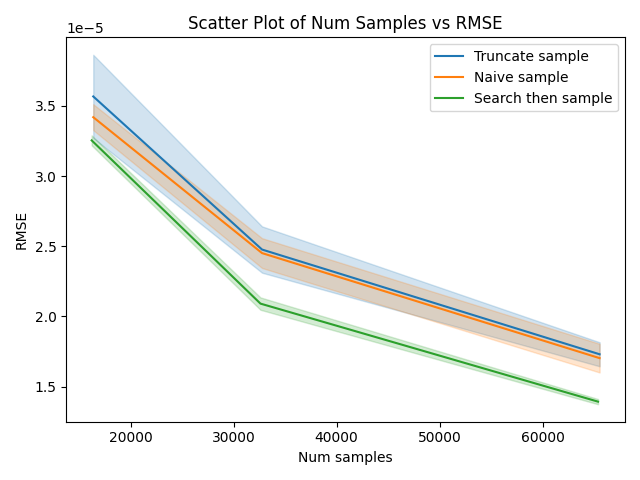
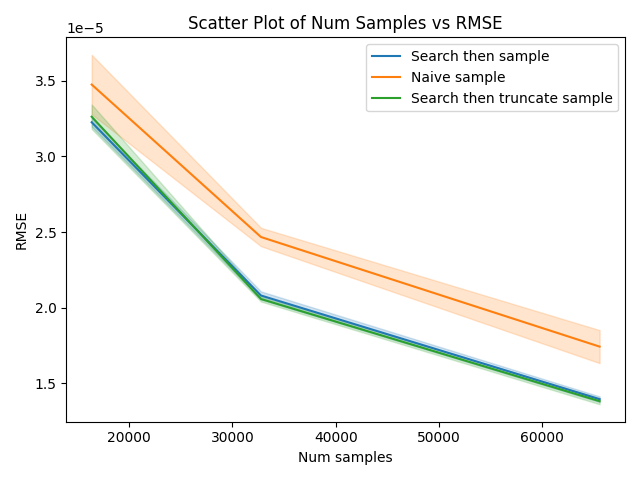
update llama prompt

diff --git a/logit-estimation/estimators.py b/logit-estimation/estimators.py
@@ -308,28 +308,37 @@ def search_then_estimate(sampler, prefix, K, T, threshold):
         estimated_logits=estimated_logits, idxs=idxs)
 
     remaining_calls = K*T - total_calls
-    sample_output = sampler.sample(prefix, remaining_calls, logit_bias)
-    estimator.add_sample(sample_output)
-    return estimator, K*T
-    """
     newT = remaining_calls // K
-    #import pdb; pdb.set_trace()
-    #newT = T
     for t in range(newT):
         print(t, newT)
         weight, words = estimator.weight()
         if weight is None:
             break
         logit_bias = {word: bias for word in words}
-        logit_bias = dict()
-        weight = 0.
         sample_output = sampler.sample(prefix, K, logit_bias)
         allowed_words = [x for x in range(sampler.vocab_size) if x not in logit_bias]
         estimator.add_sample(sample_output, weight, allowed_words=allowed_words)
-    #return estimator, K*T
-    return estimator, total_calls + K * (t+1)
-    """
 
+    weight, words = estimator.weight()
+    logit_bias = {word: bias for word in words}
+    if weight is not None:
+        sample_output = sampler.sample(prefix, remaining_calls % K, logit_bias)
+        allowed_words = [x for x in range(sampler.vocab_size) if x not in logit_bias]
+        estimator.add_sample(sample_output, weight, allowed_words=allowed_words)
+
+    return estimator, K*T
+
+def search_then_sample(sampler, prefix, K, T, threshold):
+    idxs, estimated_logits, logit_bias, total_calls = diffsearch(sampler, prefix, 128, dict())
+
+    bias = -1000
+    estimator = Estimator(sampler.vocab_size, threshold,
+        estimated_logits=estimated_logits, idxs=idxs)
+
+    remaining_calls = K*T - total_calls
+    sample_output = sampler.sample(prefix, remaining_calls)
+    estimator.add_sample(sample_output)
+    return estimator, K*T
 
 
 if __name__ == "__main__":
@@ -351,15 +360,33 @@ if __name__ == "__main__":
         model = llama
         model_name = "llama"
     if model == llama:
-        prefix = "[INST] <<SYS>>\nYou are a helpful assistant.\n<</SYS>>\nWrite me a story. [/INST]\n"
+        from datasets import load_dataset
+        dataset = load_dataset("wentingzhao/one-million-instructions")
+        d = dataset["train"][0]
+        prefix = f"[INST] <<SYS>>\n{d['system']}\n<</SYS>>\n {d['user']} [/INST]"
     else:
         prefix = "hi"
+
 
 
     # test sampling
     sampler = HfSampler(model)
     output = sampler.sample(prefix, 128)
     true_dist = output.true_dist
+
+
+    """
+    encoded_prompt = sampler.tokenizer(prefix, return_tensors="pt")
+
+    out = sampler.model.generate(
+          input_ids=encoded_prompt["input_ids"],
+          attention_mask=encoded_prompt["attention_mask"],
+          do_sample=False,
+          max_length=64 + len(encoded_prompt[0]),
+    )
+
+    import pdb; pdb.set_trace()
+    """
 
     """
     idxs1, estimated_logits1, logit_bias1, total_calls1 = diffsearch(sampler, prefix, 2**14, dict())
@@ -391,55 +418,57 @@ if __name__ == "__main__":
         for T in Ts:
             # test estimation
             #e1, c1 = estimate(sampler, prefix, K, T, tau)
+            e1, c1 = search_then_sample(sampler, prefix, K, T, tau)
             e2, c2 = naive_estimate(sampler, prefix, K*T)
             e3, c3 = search_then_estimate(sampler, prefix, K, T, tau)
-            #mu1 = torch.tensor(np.exp(e1.mean()))
+            mu1 = torch.tensor(np.exp(e1.mean()))
             mu2 = torch.tensor(np.exp(e2.mean()))
             mu3 = torch.tensor(np.exp(e3.mean()))
-            #kl1 = kl_divergence(true_dist, Categorical(probs=mu1)).item()
+            kl1 = kl_divergence(true_dist, Categorical(probs=mu1)).item()
             kl2 = kl_divergence(true_dist, Categorical(probs=mu2)).item()
             kl3 = kl_divergence(true_dist, Categorical(probs=mu3)).item()
-            #rmse1 = (true_dist.probs - mu1).square().mean().sqrt().item()
+            rmse1 = (true_dist.probs - mu1).square().mean().sqrt().item()
             rmse2 = (true_dist.probs - mu2).square().mean().sqrt().item()
             rmse3 = (true_dist.probs - mu3).square().mean().sqrt().item()
-            #rrmse1 = ((true_dist.probs - mu1).abs() / true_dist.probs).mean().item()
+            rrmse1 = ((true_dist.probs - mu1).abs() / true_dist.probs).mean().item()
             rrmse2 = ((true_dist.probs - mu2).abs() / true_dist.probs).mean().item()
             rrmse3 = ((true_dist.probs - mu3).abs() / true_dist.probs).mean().item()
 
             #method_list.append("Truncate sample")
-            method_list.append("Naive sample")
             method_list.append("Search then sample")
-            #samples_list.append(c1)
+            method_list.append("Naive sample")
+            method_list.append("Search then truncate sample")
+            samples_list.append(c1)
             samples_list.append(c2)
             samples_list.append(c3)
-            #kl_list.append(kl1)
+            kl_list.append(kl1)
             kl_list.append(kl2)
             kl_list.append(kl3)
-            #rmse_list.append(rmse1)
+            rmse_list.append(rmse1)
             rmse_list.append(rmse2)
             rmse_list.append(rmse3)
-            #rrmse_list.append(rrmse1)
+            rrmse_list.append(rrmse1)
             rrmse_list.append(rrmse2)
             rrmse_list.append(rrmse3)
             #if kl1 < 0 or kl2 < 0 or kl3 < 0:
             #    print(kl1, kl2, kl3)
 
-            #max_prob_list.append(mu1.max().item())
+            max_prob_list.append(mu1.max().item())
             max_prob_list.append(mu2.max().item())
             max_prob_list.append(mu3.max().item())
-            #prob_25_list.append(mu1.topk(25).values[-1].item())
+            prob_25_list.append(mu1.topk(25).values[-1].item())
             prob_25_list.append(mu2.topk(25).values[-1].item())
             prob_25_list.append(mu3.topk(25).values[-1].item())
-            #prob_50_list.append(mu1.topk(50).values[-1].item())
+            prob_50_list.append(mu1.topk(50).values[-1].item())
             prob_50_list.append(mu2.topk(50).values[-1].item())
             prob_50_list.append(mu3.topk(50).values[-1].item())
-            #prob_100_list.append(mu1.topk(100).values[-1].item())
+            prob_100_list.append(mu1.topk(100).values[-1].item())
             prob_100_list.append(mu2.topk(100).values[-1].item())
             prob_100_list.append(mu3.topk(100).values[-1].item())
-            #prob_500_list.append(mu1.topk(500).values[-1].item())
+            prob_500_list.append(mu1.topk(500).values[-1].item())
             prob_500_list.append(mu2.topk(500).values[-1].item())
             prob_500_list.append(mu3.topk(500).values[-1].item())
-            #prob_1000_list.append(mu1.topk(1000).values[-1].item())
+            prob_1000_list.append(mu1.topk(1000).values[-1].item())
             prob_1000_list.append(mu2.topk(1000).values[-1].item())
             prob_1000_list.append(mu3.topk(1000).values[-1].item())
 
